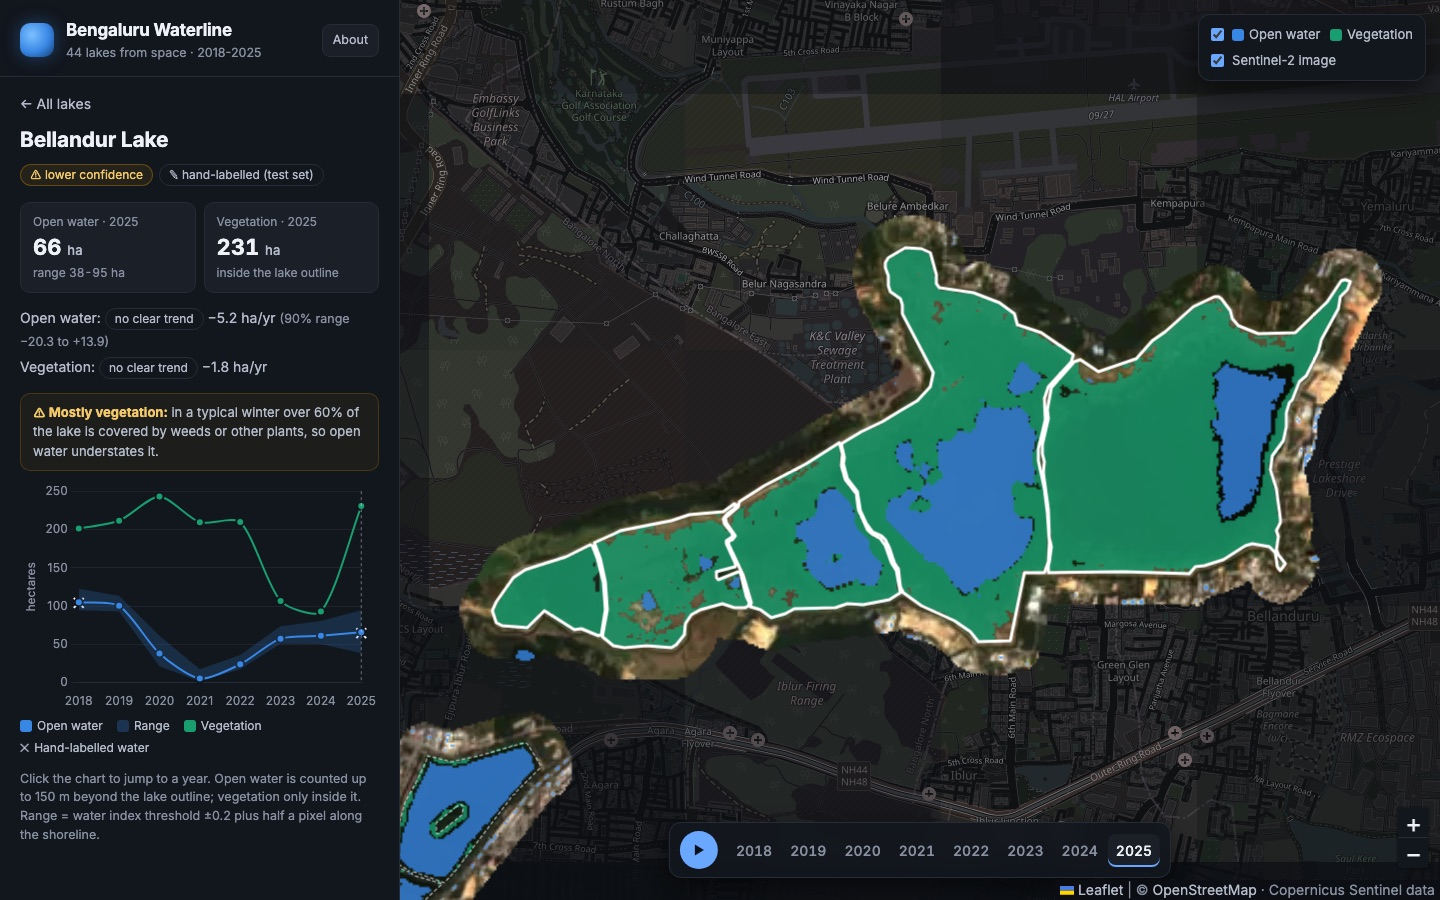
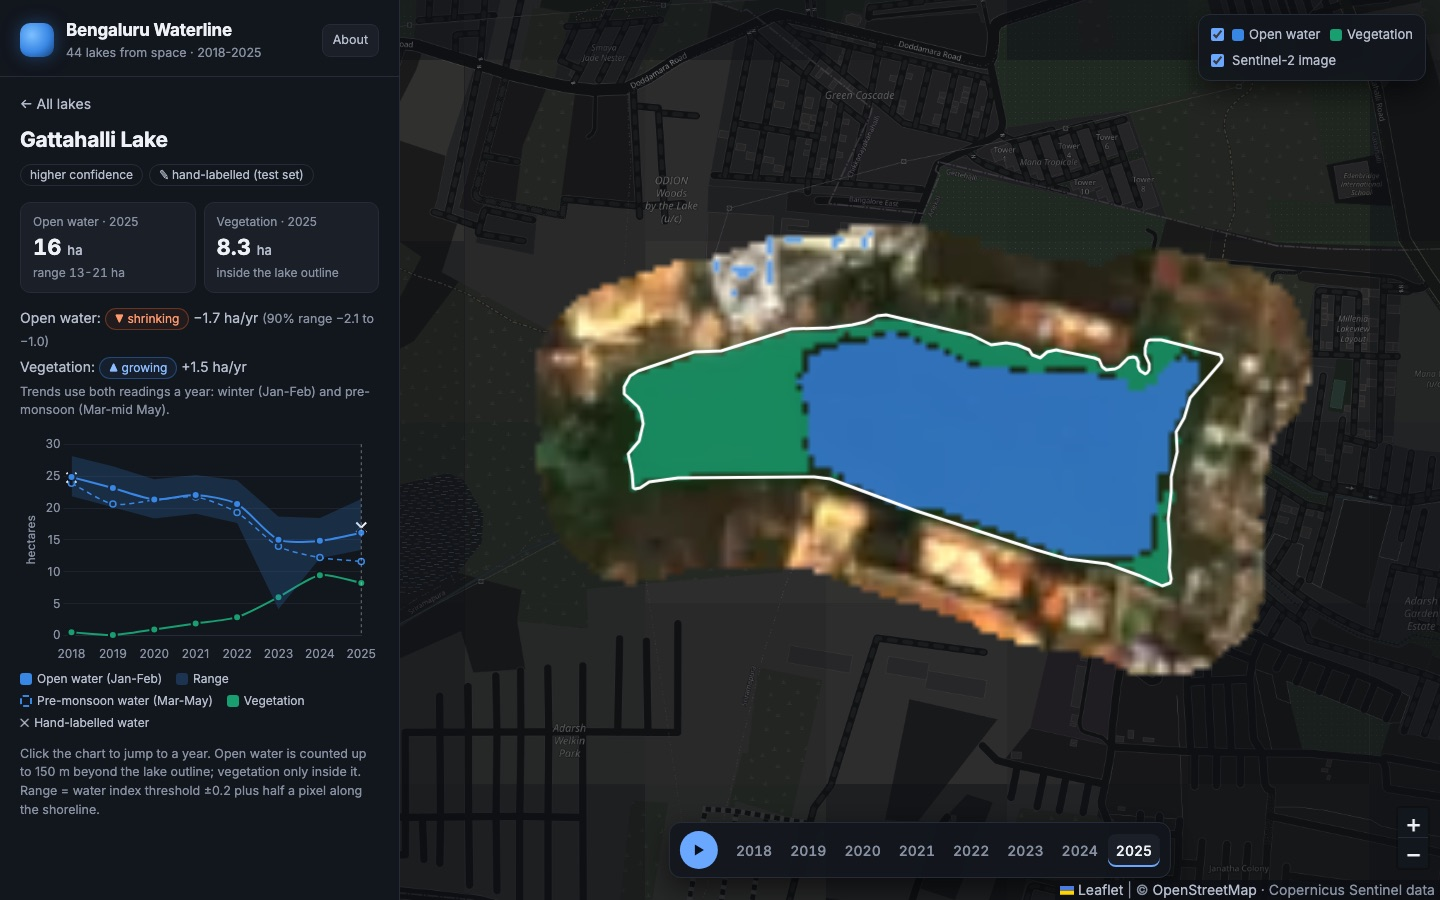
README for visitors; decisions log to docs/; spec renamed; fresh screenshots
- README: map, what it found, then validation, trends, site, reproduce, related work, licence
- Decisions table (D5/D6 row was broken, out of order, stale date) and early findings -> docs/DECISIONS.md
- lakewatch-tech-spec.md -> docs/SPEC.md, kept as written with a note on the old name
- site section rewritten to match the site (outlines aren't coloured; no 'read with care' panel)
- README screenshot and social preview retaken (Gattahalli: pre-monsoon line, trend chips)

diff --git a/src/waterline/stac.py b/src/waterline/stac.py
@@ -9,7 +9,7 @@ import pystac_client
 
 CATALOG = "https://planetarycomputer.microsoft.com/api/stac/v1"
 COLLECTION = "sentinel-2-l2a"
-# Season windows (MM-DD). D3: winter chosen 2026-10-26 from clear-day counts (7-11/yr), see README.
+# Season windows (MM-DD). D3: winter chosen 2026-10-26 from clear-day counts (7-11/yr), see docs/DECISIONS.md.
 # Pre-monsoon (8-14 clear days/yr) added 2026-11-14 for trend power; trends use both, the site's maps winter.
 SEASONS = {"winter": ("01-01", "02-28"), "premonsoon": ("03-01", "05-15")}
 

diff --git a/README.md b/README.md
@@ -1,18 +1,65 @@
 # Bengaluru Waterline
 
-How much open water and weed cover Bengaluru's lakes have, every winter since 2018, from Sentinel-2. Every number has an error range, and the method is validated against hand-labelled lakes it was never tuned on.
+How much open water and weed cover Bengaluru's lakes have had since 2018, measured from Sentinel-2 satellite images. Every number has an error range, the method is checked against hand-labelled lakes it was never tuned on, and trends are tested for significance.
 
 ### [🗺 Explore the live map →](https://srijan-ratrey.github.io/bengaluru-waterline/)
 
-[![Bengaluru Waterline: Bellandur Lake, 2025. Open water in blue, vegetation in green, with its 2018-2025 area chart](docs/img/screenshot.jpg)](https://srijan-ratrey.github.io/bengaluru-waterline/)
+[![Bengaluru Waterline: Gattahalli Lake, 2025. Open water in blue, vegetation in green, with its 2018-2025 area chart](docs/img/screenshot.jpg)](https://srijan-ratrey.github.io/bengaluru-waterline/)
 
-44 lakes · 2018-2025 · water and vegetation per lake and winter, with error ranges · data as CSV: [areas](https://srijan-ratrey.github.io/bengaluru-waterline/areas.csv), [trends](https://srijan-ratrey.github.io/bengaluru-waterline/trends.csv) (CC BY 4.0)
+44 lakes · 2018-2025 · water and vegetation per lake, two readings a year, with error ranges · data as CSV: [areas](https://srijan-ratrey.github.io/bengaluru-waterline/areas.csv), [trends](https://srijan-ratrey.github.io/bengaluru-waterline/trends.csv) (CC BY 4.0)
 
-(Formerly LakeWatch; renamed 2026-11-14 to avoid confusion with Namma Lakes / Bangalore Lake Watch.)
+## What it found
 
-Docs: [METHODS](docs/METHODS.md) · [VALIDATION](docs/VALIDATION.md) · [LIMITATIONS](docs/LIMITATIONS.md) · [labelling guide](docs/LABELLING.md) · [full spec](lakewatch-tech-spec.md)
+- **Water areas run low.** On 12 held-out test lakes the median area error is 24% against a 10% target (missed), mostly because dark, deep water is read as land. Pixel overlap with the hand labels is good: IoU 0.78 for water and 0.74 for vegetation, and the error ranges held the labelled area 83% of the time.
+- **Few firm trends.** Over 2018-2025, Gattahalli is shrinking (water giving way to weeds) and Horamavu Agara is growing. 9 more lakes are *possibly* shrinking or growing: significant on their own, but not after allowing for testing 44 lakes at once.
+- **Most lakes can't be called yet.** 8 years is too short against large year-to-year swings. "No clear trend" means the data can't tell, not that a lake is stable.
 
-## Quickstart
+Docs: [methods](docs/METHODS.md) · [validation](docs/VALIDATION.md) · [limitations](docs/LIMITATIONS.md) · [decisions and early findings](docs/DECISIONS.md) · [labelling guide](docs/LABELLING.md) · [original spec](docs/SPEC.md)
+
+## Validation against hand labels (2026-11-13)
+
+40 hand-labelled lake-years (20 lakes x 2018, 2025, winter; one annotator). Settings were chosen on the 8 val lakes and frozen in [configs/experiment.toml](configs/experiment.toml) before the 12 test lakes were scored, once. Method: water = MNDWI > 0, veg = NDVI > 0.5 inside the lake, everything else land.
+
+| | val (16) | **test (24)** | frozen target | test |
+|---|---|---|---|---|
+| Median relative area error, clean lakes | 0.13 | **0.24** | <= 0.10 | **fail** |
+| Median relative area error, vegetated lakes | 0.30 | **0.25** | reported | |
+| Interval coverage (nominal 0.90) | 0.88 | **0.83** | 0.80-1.00 | pass |
+| Pooled IoU, water | 0.73 | **0.78** | >= 0.65 | pass |
+| Pooled IoU, veg | 0.70 | **0.74** | >= 0.60 | pass |
+| Pooled IoU, land | 0.33 | **0.46** | reported | |
+| 2018 -> 2025 change direction correct | 6/8 | **7/12** | reported | |
+
+- **MNDWI undercounts dark water.** On the worst test lake-years (Bagaluru 2025: 37.7 vs 56.1 ha; Chudahalli 2018; Budigere 2018), the missed water pixels have low NIR (0.02-0.03, i.e. water) but SWIR (~0.05) above green (~0.03), so MNDWI goes negative. Dynamic World gives them p 0.45-0.65. Val already showed the same bias (median -13% at MNDWI > 0). Not fixed post hoc: any fix has to be re-validated on new labelled lakes.
+- **Kogilu 2018** (8.2 ha labelled, 0.8 ha by MNDWI): missed pixels have NDVI 0.37, i.e. vegetation-tinged water.
+- **Dynamic World** is the best single method on large clean lakes (Madiwala IoU 0.92-0.94) but misses most of weed-margined Hosakote 2018 (21 vs 207 ha).
+- **Limits:** one annotator (no agreement ceiling yet), 3 clean val lakes, small lakes dominate the interval width. Full detail in [VALIDATION](docs/VALIDATION.md).
+
+## Trends 2018-2025 (winter + pre-monsoon, 2026-11-15)
+
+`uv run waterline trends` -> `data/areas.parquet` (per lake, year and season: water area with `area_lo`/`area_hi`, and water/veg/land ha inside the lake) and `data/trends.parquet`. Per lake, over 16 readings (winter Jan-Feb and pre-monsoon Mar-mid May, 2018-2025): seasonal Mann-Kendall with an exact p from all 40,320 orderings of the years (each year's two readings move together, because they are not independent), seasonal Theil-Sen slope with a 90% CI, Benjamini-Hochberg q across all 44 lakes, verdict at q < 0.1. Details in [METHODS](docs/METHODS.md#5-trends-waterline-trends).
+
+- **Open water:** 1 lake shrinking (Gattahalli, 24.8 -> 16.1 ha, -1.7 ha/yr, 90% CI -2.1 to -1.0), 1 growing (Horamavu Agara, 0.1 -> 11.5 ha, +1.9 ha/yr), 9 possible (below), **33 no clear trend**.
+- **Vegetation inside the lake:** 2 growing (Gattahalli +1.5 ha/yr, Singanayakanahalli +0.5 ha/yr), 2 possible, 40 no clear trend.
+- **Possible trends** (p < 0.05 for the lake alone, not after the 44-lake correction; about 2 of 44 would get this by chance): water possibly shrinking at Muthanalluru (-7.7 ha/yr) and Hommadevanahalli (-0.3 ha/yr); possibly growing at Bagaluru Kere (+2.7), Kogilu (+0.8), Palanahalli (+0.4), Munekolala (+0.4), Puttenahalli (+0.3), Sompura (+0.06) and Singanayakanahalli (+0.04). Vegetation possibly growing at Muthanalluru, possibly shrinking at Doddkammanahalli. The site shows these with a dashed label. Hommadevanahalli and Bagaluru Kere are closest to a firm verdict (q = 0.105).
+- **Adding the pre-monsoon season didn't give more verdicts.** Winter alone (`--seasons winter`) gives 3 (Hommadevanahalli shrinking as well). A lake's two readings in a year move together (median rank correlation 0.79; pre-monsoon water is typically 89% of winter's), so the second season mostly repeats the first, and the test, correctly, gives it little extra weight.
+- **The random 34 on their own:** correcting over only the 34 randomly drawn lakes gives 4 water verdicts: Gattahalli and Hommadevanahalli shrinking, Horamavu Agara and Bagaluru Kere growing. The 10 added lakes (below) have no verdicts and widen the correction. The site uses the pre-specified 44-lake correction; statements about Bengaluru lakes in general should use the random 34.
+- **10 lakes added on request** (2026-11-14, `waterline add-lakes`): Agara, Hebbal, Jakkur, Rachenahalli, Kaikondrahalli, Sankey Tank, Lalbagh Tank, Puttenahalli (Yelahanka), Yellamallappa Chetty and Muthanalluru. They are well-known lakes the random draw missed, tagged `sample=added` in [configs/lakes.geojson](configs/lakes.geojson), measured only and never labelled. None gets a firm verdict; Muthanalluru (65 -> 13 ha, -7.7 ha/yr, 90% CI -11.3 to -1.6, q = 0.12) is possibly shrinking.
+- **Why so few:** 8 years is the real limit, and year-to-year swings are large (Hosakote: 180, 24, 25, 22, 233, 257, 235, 22 ha in winter). "No clear trend" means the data can't tell, not that a lake is stable.
+- Caveats: only winter is validated against hand labels; areas carry the test-set undercount of dark water (above); per-year intervals are not propagated into the slope CI; extent only, no causes. All known failure cases are in [LIMITATIONS](docs/LIMITATIONS.md).
+
+## The site
+
+[srijan-ratrey.github.io/bengaluru-waterline](https://srijan-ratrey.github.io/bengaluru-waterline/) is a static page in `site/`, deployed to GitHub Pages by `.github/workflows/pages.yml` on every push to `main` that touches `site/`. It shows:
+
+- a dark map with year buttons and a play button, overlaying each lake's winter Sentinel-2 true-colour composite (clipped to the lake region) and the frozen water/vegetation map, with lake outlines on top;
+- a searchable, sortable lake list with sparklines, and filter tiles by trend verdict (confirmed, plus "+N possibly");
+- per lake: water and vegetation areas with their range, both trends, a chart with the error band, the pre-monsoon line, the vegetation series and any hand-labelled areas, and a ⚠ flag for lakes that are mostly vegetation or have a range wider than their open water;
+- an About box with the test-set results, how far to trust them, and links to the data and this repo.
+
+`#<lake_id>` in the URL opens a lake directly, and the browser back button steps between lakes. `waterline site` writes the page's data (`site/data.js`, `site/img/`, `site/areas.csv`, `site/trends.csv`); they are committed so Pages can serve them.
+
+## Reproduce
 
 ```sh
 uv sync
@@ -29,80 +76,7 @@ uv run python -m http.server -d site                     # then open http://loca
 uv run pytest
 ```
 
-`measure` caches one GeoTIFF per lake-year in `data/composites/` (bands B02-B11 median reflectance, `n_valid`, `inside`/`lake` masks, `dw_water`); open them in QGIS for hand labelling.
-
-## Validation against hand labels (2026-11-13)
-
-40 hand-labelled lake-years (20 lakes x 2018, 2025; one annotator). Settings were chosen on the 8 val lakes and frozen in [configs/experiment.toml](configs/experiment.toml) before the 12 test lakes were scored, once. Method: water = MNDWI > 0, veg = NDVI > 0.5 inside the lake, everything else land.
-
-| | val (16) | **test (24)** | frozen target | test |
-|---|---|---|---|---|
-| Median relative area error, clean lakes | 0.13 | **0.24** | <= 0.10 | **fail** |
-| Median relative area error, vegetated lakes | 0.30 | **0.25** | reported | |
-| Interval coverage (nominal 0.90) | 0.88 | **0.83** | 0.80-1.00 | pass |
-| Pooled IoU, water | 0.73 | **0.78** | >= 0.65 | pass |
-| Pooled IoU, veg | 0.70 | **0.74** | >= 0.60 | pass |
-| Pooled IoU, land | 0.33 | **0.46** | reported | |
-| 2018 -> 2025 change direction correct | 6/8 | **7/12** | reported | |
-
-- **MNDWI undercounts dark water.** On the worst test lake-years (Bagaluru 2025: 37.7 vs 56.1 ha; Chudahalli 2018; Budigere 2018), the missed water pixels have low NIR (0.02-0.03, i.e. water) but SWIR (~0.05) above green (~0.03), so MNDWI goes negative. Dynamic World gives them p 0.45-0.65. Val already showed the same bias (median -13% at MNDWI > 0). Not fixed post hoc: any fix has to be re-validated on new labelled lakes.
-- **Kogilu 2018** (8.2 ha labelled, 0.8 ha by MNDWI): missed pixels have NDVI 0.37, i.e. vegetation-tinged water.
-- **Dynamic World** is the best single method on large clean lakes (Madiwala IoU 0.92-0.94) but misses most of weed-margined Hosakote 2018 (21 vs 207 ha).
-- **Limits:** one annotator (no agreement ceiling yet), 3 clean val lakes, small lakes dominate the interval width.
-
-## Trends 2018-2025 (winter + pre-monsoon, 2026-11-15)
-
-`uv run waterline trends` -> `data/areas.parquet` (per lake, year and season: water area with `area_lo`/`area_hi`, and water/veg/land ha inside the lake) and `data/trends.parquet`. Per lake, over 16 readings (winter Jan-Feb and pre-monsoon Mar-mid May, 2018-2025): seasonal Mann-Kendall with an exact p from all 40,320 orderings of the years (each year's two readings move together, because they are not independent), seasonal Theil-Sen slope with a 90% CI, Benjamini-Hochberg q across all 44 lakes, verdict at q < 0.1. Details in [METHODS](docs/METHODS.md#5-trends-waterline-trends).
-
-- **Open water:** 1 lake shrinking (Gattahalli, 24.8 -> 16.1 ha, -1.7 ha/yr, 90% CI -2.1 to -1.0), 1 growing (Horamavu Agara, 0.1 -> 11.5 ha, +1.9 ha/yr), 9 possible (below), **33 no clear trend**.
-- **Vegetation inside the lake:** 2 growing (Gattahalli +1.5 ha/yr, Singanayakanahalli +0.5 ha/yr), 2 possible, 40 no clear trend.
-- **Possible trends** (p < 0.05 for the lake alone, not after the 44-lake correction; about 2 of 44 would get this by chance): water possibly shrinking at Muthanalluru (-7.7 ha/yr) and Hommadevanahalli (-0.3 ha/yr); possibly growing at Bagaluru Kere (+2.7), Kogilu (+0.8), Palanahalli (+0.4), Munekolala (+0.4), Puttenahalli (+0.3), Sompura (+0.06) and Singanayakanahalli (+0.04). Vegetation possibly growing at Muthanalluru, possibly shrinking at Doddkammanahalli. The site shows these with a dashed label. Hommadevanahalli and Bagaluru Kere are closest to a firm verdict (q = 0.105).
-- **Adding the pre-monsoon season didn't give more verdicts.** Winter alone (`--seasons winter`) gives 3 (Hommadevanahalli shrinking as well). A lake's two readings in a year move together (median rank correlation 0.79; pre-monsoon water is typically 89% of winter's), so the second season mostly repeats the first, and the test, correctly, gives it little extra weight.
-- **The random 34 on their own:** correcting over only the 34 randomly drawn lakes gives 4 water verdicts: Gattahalli and Hommadevanahalli shrinking, Horamavu Agara and Bagaluru Kere growing. The 10 added lakes (below) have no verdicts and widen the correction. The site uses the pre-specified 44-lake correction; statements about Bengaluru lakes in general should use the random 34.
-- **10 lakes added on request** (2026-11-14, `waterline add-lakes`): Agara, Hebbal, Jakkur, Rachenahalli, Kaikondrahalli, Sankey Tank, Lalbagh Tank, Puttenahalli (Yelahanka), Yellamallappa Chetty and Muthanalluru. They are well-known lakes the random draw missed, tagged `sample=added` in [configs/lakes.geojson](configs/lakes.geojson), measured only and never labelled. None gets a firm verdict; Muthanalluru (65 -> 13 ha, -7.7 ha/yr, 90% CI -11.3 to -1.6, q = 0.12) is possibly shrinking.
-- **Why so few:** 8 years is the real limit, and year-to-year swings are large (Hosakote: 180, 24, 25, 22, 233, 257, 235, 22 ha in winter). "No clear trend" means the data can't tell, not that a lake is stable.
-- Caveats: only winter is validated against hand labels; areas carry the test-set undercount of dark water (above); per-year intervals are not propagated into the slope CI; extent only, no causes.
-
-## Demo site (2026-11-14)
-
-`site/index.html` is a static page (serve the folder with any static server; opened as a file, OSM refuses the map tiles); `waterline site` writes its data (`site/data.js`, `site/img/`, and the downloadable `site/areas.csv` and `site/trends.csv`; all committed so Pages can serve them). It shows:
-
-- a dark map with year buttons and a play button, overlaying each lake's Sentinel-2 true-colour composite (clipped to the lake region) and the frozen water/veg map;
-- a searchable, sortable lake list with sparklines, and filter tiles by trend verdict;
-- lake outlines coloured by trend verdict;
-- per lake, an area chart with the interval band, the vegetation series and the hand-labelled areas;
-- a "lakes to read with care" panel listing vegetated lakes (median veg cover > 0.6) and lakes with wide intervals (median interval wider than the area);
-- the test-set misses stated up front.
-
-`#<lake_id>` in the URL opens a lake directly, and the browser back button steps between lakes. [Live site](https://srijan-ratrey.github.io/bengaluru-waterline/) (deployed from `site/` by `.github/workflows/pages.yml`).
-
-## Findings so far (verified 2026-10-26)
-
-- **Reflectance offset** is not in Planetary Computer's STAC `raster:bands`; it is only in each item's `product-metadata` XML (`BOA_ADD_OFFSET`). The lock has 257 items with offset 0 and 271 with -1000, so it is read per item and stored in the lock.
-- **SCL** asset is `SCL` (20 m). Class codes are not in the metadata; ESA's standard codes are used.
-- **Clear days** (tile cloud < 20%) per candidate window, 2017-2025: winter (Jan-Feb) 7-11/yr, pre-monsoon (Mar-mid May) 8-14/yr, post-monsoon (mid Oct-Dec) 2-4/yr. 2017 has only 2-4 in every window.
-- **Bellandur (r19751547):** MNDWI and Dynamic World (p >= 0.5) agree at IoU 0.72-0.94 in normal years. 2020-2022 show ~86% vegetation cover inside the polygon and near-zero open water; there MNDWI+Otsu breaks (86 ha vs DW 0.6 ha in 2021) because the histogram is single-class. NDWI+Otsu is unreliable throughout.
-- **Lakes:** 222 named OSM candidates of at least 2 ha; 36 picked, 12 per size bin (2-10, 10-50, 50+ ha).
-
-## Decisions (as of 2026-10-26)
-
-| ID | Decision |
-|---|---|
-| D1 | 25–40 lakes, mixed size and condition, minimum ~2 ha |
-| D2 | OSM + manual review. Dropped `w1054822214` Vrishabhavati (river corridor) and `w1054822222` Nagarbhavi Thorai (no water any year) -> 34 lakes (random sample); +10 well-known lakes added on request 2026-11-14, tagged `sample=added` |
-| D3 | 2018 to 2025, winter (Jan-Feb) for maps and validation; pre-monsoon (Mar-mid May) added 2026-11-14 for trends only. 2017 dropped (2-4 clear days); post-monsoon dropped (2-4/yr) |
-| D13 | 3-class breakdown per lake-year: open water / vegetated surface / bare-or-built inside the boundary |
-| D4 | Indices + U-Net (U-Net built regardless of index results) |
-| D9 | Planetary Computer for Sentinel-2 (Dynamic World still via Earth Engine) |
-| D10 | CLI + library |
-| D12 | Licence: MIT for code; CC BY 4.0 for derived data and hand labels; lake outlines stay ODbL (see Licence) |
-| D15 | Name: **Bengaluru Waterline** (2026-11-14; was LakeWatch, too close to Namma Lakes' "Bangalore Lake Watch" and two same-named repos). No "first" claims; what sets it apart is the held-out hand-labelled validation, calibrated intervals, tested trends and the water/veg/land split |
-| D16 | Sentinel-2 only for v1 |
-
-| D5/D6 | Hand labels: 20 lakes (8 val + 12 test) x 2018, 2025, drawn on the Sentinel-2 composites ([guide](docs/LABELLING.md)). Train lakes use weak labels |
-
-Split frozen in [configs/split.json](configs/split.json), criteria in [configs/experiment.toml](configs/experiment.toml). Still on spec defaults until their gates: D7, D8, D11, D14.
-- **Full run (36 lakes x 2018-2025):** 21 of 36 lakes have >60% vegetation cover inside the polygon in a typical year; open-water-only methods report them as near-empty. Median IoU vs Dynamic World p>=0.5: MNDWI>0 0.46, MNDWI+Otsu 0.30, NDWI+Otsu 0.12, so Otsu is dropped as default. This drove D13.
+`measure` caches one GeoTIFF per lake, year and season in `data/composites/` (bands B02-B11 median reflectance, `n_valid`, `inside`/`lake` masks, `dw_water`); open them in QGIS for hand labelling.
 
 ## Related work (checked 2026-11-14)
 
@@ -110,12 +84,14 @@ Split frozen in [configs/split.json](configs/split.json), criteria in [configs/e
   - It tracks 176 Bengaluru lakes from Sentinel-2 since 2015, with a 0-100 health score, timelapses and a leaderboard ranked by five-year change.
   - Its method is NDWI + Otsu for water and NDVI for algae.
   - It publishes no accuracy against ground truth, no uncertainty ranges and no significance testing.
-  - Here, NDWI + Otsu was the weakest method tested (median IoU 0.12 against Dynamic World, see Findings). This project's contribution is the measured accuracy: held-out hand labels, calibrated intervals, corrected trend tests and a separate water/vegetation/land split.
+  - Here, NDWI + Otsu was the weakest method tested (median IoU 0.12 against Dynamic World, see [early findings](docs/DECISIONS.md#early-findings-2026-10-26)). This project's contribution is the measured accuracy: held-out hand labels, calibrated intervals, corrected trend tests and a separate water/vegetation/land split.
 - **[UrbanPulse Bengaluru](https://github.com/jiyag410-sketch/urbanpulse-bengaluru)** measures city-wide lake loss: about 26% from 1999-2003 to 2020-2024, from Landsat MNDWI water frequency checked against JRC Global Surface Water. It works at ward level, not per lake.
 - **[Bengaluru Kere Atlas](https://github.com/adityaratnam09/BengaluruKereAtlas)** covers lake water quality from KSPCB reports, not extent.
 - **[IISc BLIS](https://wgbis.ces.iisc.ac.in/sdss/BLIS/about.html)** has the historical extent and encroachment of 175 lakes.
 - **Papers:** algae and macrophyte cover of Bellandur and Varthur, 2002-2019 ([MDPI Remote Sensing 12(22):3843](https://www.mdpi.com/2072-4292/12/22/3843)); and Ganesha Raj (ex-ISRO), lake water spread from Sentinel-1 radar.
 - **`Clnay5/lakewatch`** is a same-named Sentinel-2 water-change tool for Wuhan.
+
+Formerly called LakeWatch; renamed 2026-11-14 to avoid confusion with Namma Lakes / Bangalore Lake Watch (D15).
 
 ## Licence
 

diff --git a/docs/DECISIONS.md b/docs/DECISIONS.md
@@ -1,0 +1,30 @@
+# Decisions and early findings
+
+The project log: what was decided and when, and what the first runs found. IDs (D1, D2, ...) refer to the open decisions in the original [spec](SPEC.md).
+
+## Decisions (as of 2026-11-15)
+
+| ID | Decision |
+|---|---|
+| D1 | 25-40 lakes, mixed size and condition, minimum ~2 ha |
+| D2 | OSM + manual review. Dropped `w1054822214` Vrishabhavati (river corridor) and `w1054822222` Nagarbhavi Thorai (no water any year) -> 34 lakes (random sample); +10 well-known lakes added on request 2026-11-14, tagged `sample=added` |
+| D3 | 2018 to 2025, winter (Jan-Feb) for maps and validation; pre-monsoon (Mar-mid May) added 2026-11-14 for trends only. 2017 dropped (2-4 clear days); post-monsoon dropped (2-4/yr) |
+| D4 | Indices + U-Net (U-Net built regardless of index results; not built yet) |
+| D5/D6 | Hand labels: 20 lakes (8 val + 12 test) x 2018, 2025, drawn on the Sentinel-2 composites ([guide](LABELLING.md)). Train lakes use weak labels |
+| D9 | Planetary Computer for Sentinel-2 (Dynamic World, an optional cross-check, via Earth Engine) |
+| D10 | CLI + library |
+| D12 | Licence: MIT for code; CC BY 4.0 for derived data and hand labels; lake outlines stay ODbL (see the README's Licence section) |
+| D13 | 3-class breakdown per lake-year: open water / vegetated surface / bare-or-built inside the boundary |
+| D15 | Name: **Bengaluru Waterline** (2026-11-14; was LakeWatch, too close to Namma Lakes' "Bangalore Lake Watch" and two same-named repos). No "first" claims; what sets it apart is the held-out hand-labelled validation, calibrated intervals, tested trends and the water/veg/land split |
+| D16 | Sentinel-2 only for v1 |
+
+Split frozen in [configs/split.json](../configs/split.json), criteria in [configs/experiment.toml](../configs/experiment.toml). Still on spec defaults until their gates: D7, D8, D11, D14.
+
+## Early findings (2026-10-26)
+
+- **Reflectance offset** is not in Planetary Computer's STAC `raster:bands`; it is only in each item's `product-metadata` XML (`BOA_ADD_OFFSET`). The lock at the time had 257 items with offset 0 and 271 with -1000, so it is read per item and stored in the lock.
+- **SCL** asset is `SCL` (20 m). Class codes are not in the metadata; ESA's standard codes are used.
+- **Clear days** (tile cloud < 20%) per candidate window, 2017-2025: winter (Jan-Feb) 7-11/yr, pre-monsoon (Mar-mid May) 8-14/yr, post-monsoon (mid Oct-Dec) 2-4/yr. 2017 has only 2-4 in every window.
+- **Lakes:** 222 named OSM candidates of at least 2 ha; 36 picked, 12 per size bin (2-10, 10-50, 50+ ha).
+- **Bellandur (r19751547):** MNDWI and Dynamic World (p >= 0.5) agree at IoU 0.72-0.94 in normal years. 2020-2022 show ~86% vegetation cover inside the polygon and near-zero open water; there MNDWI+Otsu breaks (86 ha vs DW 0.6 ha in 2021) because the histogram is single-class. NDWI+Otsu is unreliable throughout.
+- **Full run (36 lakes x 2018-2025):** 21 of 36 lakes have >60% vegetation cover inside the polygon in a typical year; open-water-only methods report them as near-empty. Median IoU vs Dynamic World p >= 0.5: MNDWI > 0 0.46, MNDWI+Otsu 0.30, NDWI+Otsu 0.12, so Otsu was dropped as the default. This drove D13.

diff --git a/docs/METHODS.md b/docs/METHODS.md
@@ -1,6 +1,6 @@
 # Methods
 
-How Bengaluru Waterline turns Sentinel-2 scenes into per-lake water, vegetation and land areas, intervals and trends. Every step below is one CLI command (see the README quickstart). Settings live in [configs/experiment.toml](../configs/experiment.toml).
+How Bengaluru Waterline turns Sentinel-2 scenes into per-lake water, vegetation and land areas, intervals and trends. Every step below is one CLI command (see the README's Reproduce section). Settings live in [configs/experiment.toml](../configs/experiment.toml).
 
 ## 1. Lakes (`waterline lakes`)
 

diff --git a/docs/SPEC.md b/docs/SPEC.md
@@ -1,3 +1,5 @@
+> The original project spec, written under the working name *LakeWatch BLR* and kept as written. The project is now **Bengaluru Waterline**; for what was actually decided, see [DECISIONS.md](DECISIONS.md).
+
 # LakeWatch BLR: Satellite Lake-Extent Tracker for Bengaluru
 
 Working name only. A name collision has not been checked (see D15).
